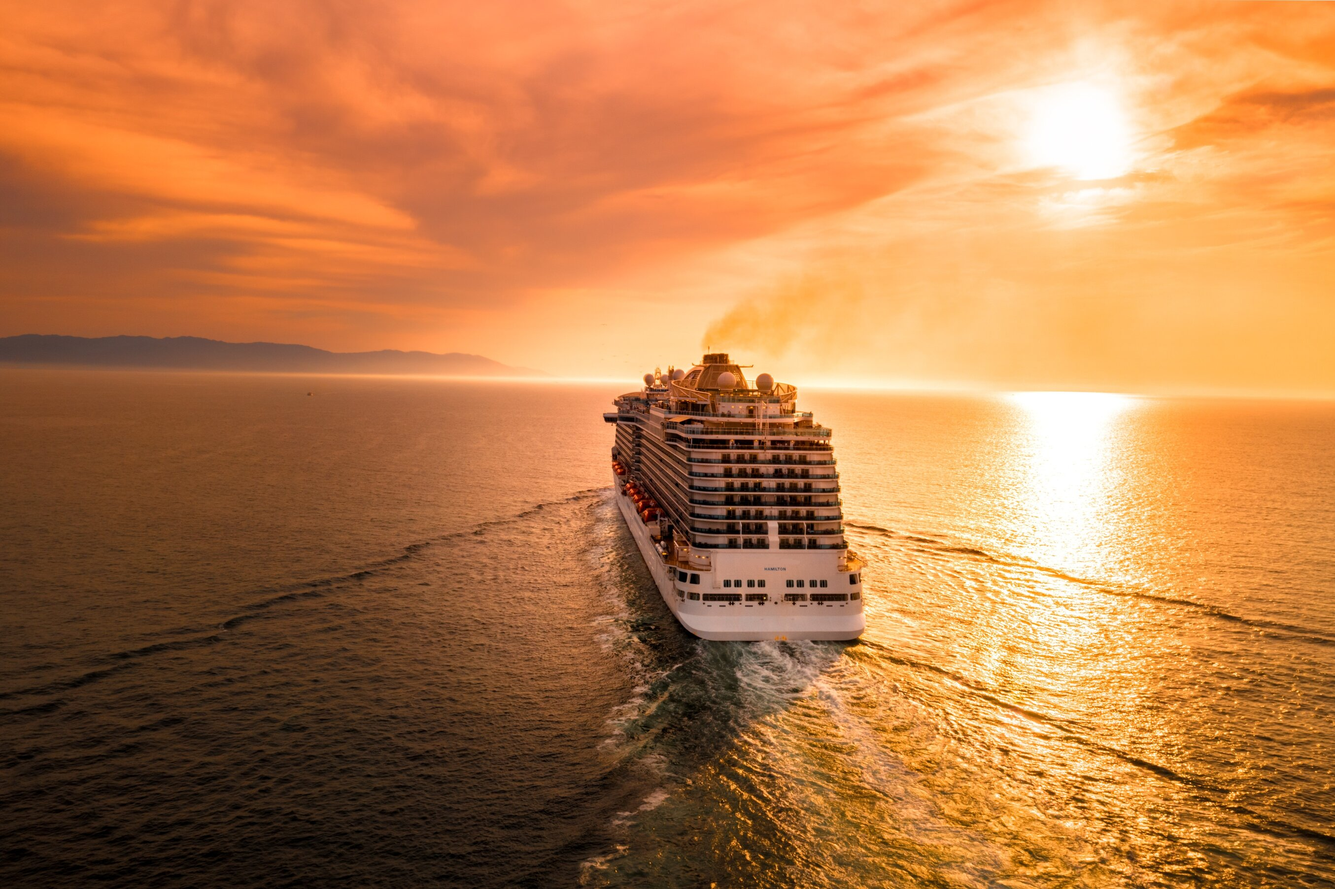
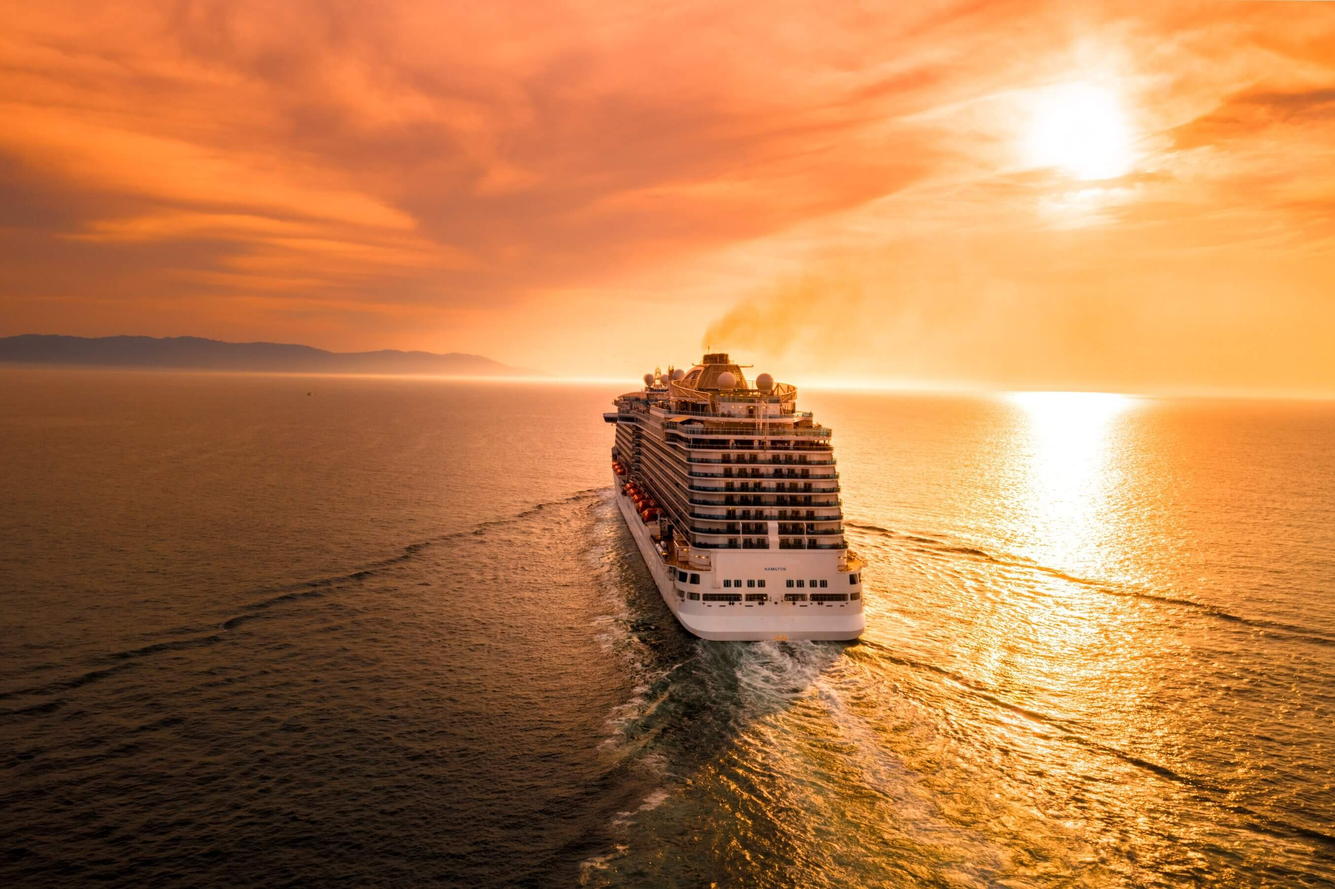
compress images

Changed region(s): [[0.7132, 0.6515, 0.8372, 0.8066], [0.8372, 0.8066, 0.8682, 0.8377]]

diff --git a/static/css/style.min.css b/static/css/style.min.css
@@ -1,1 +1,1 @@
-*{font-size:1em;font-family:"Inconsolata",monospace;font-weight:400;transition:.1s}* ::-moz-selection{-webkit-text-fill-color:#e3e3e3;background:#3a3a3a;color:#e3e3e3}* ::selection{-webkit-text-fill-color:#e3e3e3;background:#3a3a3a;color:#e3e3e3}html{height:100vh;max-height:100vh}.all-content{margin-bottom:0 !important}.all-content .sidenav-trigger{position:absolute;top:20px;left:20px}.list-header{color:#bc2122;font-weight:lighter;padding:2em 0 0;margin:0}sub{font-weight:lighter}h1{font-size:2.3em;display:table;position:relative;border:#e3e3e3 5px solid;padding:.5em;margin-bottom:1em;text-transform:uppercase;font-weight:600;letter-spacing:.15em;transition:none}h1 a{transition:none;color:#e3e3e3}h1 a:hover{color:#e3e3e3 !important;-webkit-text-fill-color:transparent;background:url("/images/bg.jpg") repeat center;color:#3a3a3a;-webkit-background-clip:text;background-size:100px}.centre{text-align:center}h2{margin-top:2.5em;font-size:1.2em;border-bottom:#e3e3e3 5px solid;font-weight:600}hr{border:none;border-top:#e3e3e3 1px solid}.ico{width:1em;font-size:2em}.info{text-align:justify;color:#3a3a3a;margin-bottom:2.5em}a{text-align:center}.good i{color:#248d3c}.average i{color:#bc6d2e}.learning i{color:#4677bc}.subinfo{color:#636363}.subinfo a{color:#636363;text-decoration:none;border-bottom:1px #e3e3e3 dashed}strong,strong>*{font-weight:600}#portrait{position:absolute;z-index:-1;top:0}a{color:#3a3a3a;display:inline-block}a img{-webkit-transform:perspective(1px) translateZ(0);transform:perspective(1px) translateZ(0);box-shadow:0 0 1px transparent;-webkit-transition-duration:.3s;transition-duration:.3s;-webkit-transition-property:transform;transition-property:transform}a img:hover,a img:focus,a img:active{-webkit-transform:scale(0.9);transform:scale(0.9)}.border{padding:.5em;border:#e3e3e3 5px solid}.sidebar{position:fixed;z-index:1;min-height:100% !important;padding-left:2.5em !important;padding-right:1em !important;background:#fff;box-shadow:5px 5px 40px rgba(0,0,0,.3);width:100%;overflow-x:hidden;overflow-y:scroll;max-height:100vh}.sidebar a:hover{color:#bc2122}.sidebar li{padding-left:5px;list-style-type:circle;font-size:1.1em;float:none}.sidebar li a{padding-left:10px}.sidebar li:hover{list-style-type:revert;color:#bc2122}.sidebar li:not(:first-of-type){padding-top:5px}.post-list li{padding-bottom:10px;list-style-type:none;font-size:.7em}.post-list li a{color:#3a3a3a !important;font-weight:800;font-size:2em}.post-list li a:hover{color:#bc2122 !important}.post-list li:before{-webkit-text-fill-color:transparent;background:url("/images/bg.jpg") repeat center;color:#3a3a3a;-webkit-background-clip:text;background-size:100px;color:#fff;margin-right:5px}.posts{margin-bottom:.5em;font-weight:600;display:inline-block;color:#3a3a3a;text-decoration:none}.posts::after{content:"";display:block;width:0;height:3px;background:#bc2122;transition:width .3s}.posts:hover::after{width:100%}@media only screen and (max-width: 992px){.slide-in-on-mobile-blog{-webkit-transform:translateX(-105%);transform:translateX(-105%)}}@media only screen and (min-width: 992px){.slide-in-on-mobile-blog{-webkit-transform:translateX(0%);transform:translateX(0%)}}#post{box-shadow:5px 5px 40px rgba(0,0,0,.3);padding-left:5em;padding-right:3em;background:#e3e3e3;overflow-x:hidden;overflow-y:scroll;max-height:100vh;min-height:100vh}#post title{display:block;position:relative;border:#e3e3e3 5px solid;text-transform:uppercase;font-weight:800;letter-spacing:.15em;padding:initial;color:#e3e3e3;margin-bottom:.2em;font-size:4em;text-shadow:-3px 3px 0 #3a3a3a;padding-top:.5em}#post .banner{padding-top:-5px}#post .banner img{max-height:250px;max-width:90%}#post .content p{font-size:1.2em}#post .content img{max-width:100%}#post .content .tilde{font-size:5em;line-height:0;color:#fff;padding:30px 30px 50px;-webkit-text-fill-color:transparent;background:url("/images/bg.jpg") repeat center;color:#3a3a3a;-webkit-background-clip:text;background-size:100px}#post .content blockquote{border-left:3px solid #636363;font-style:italic}#post .content blockquote p{font-weight:200}#post .content ul li{list-style-type:circle;margin-left:30px;padding-left:10px}#post .content code{background:#fff;color:#3a3a3a;padding:2px 5px 2px 5px;border-radius:3px}#post .content h1{text-align:center;margin:1em 0 0;font-size:2.5em;display:inherit;font-weight:900}#post .content h2{margin-top:1em;display:table;font-size:2em;font-weight:900}#post .content h3{margin-top:initial;display:table;font-size:1.8em;font-weight:600}#post .content hr{border-top:#fff 2px dashed !important;margin-top:30px;padding-bottom:25px}#post .content .hljs{background:#fff;font-size:.8em}#post .tags{margin-top:.5em}#post .tags .tag{font-size:.8em;padding:2px 10px;border-radius:20px;background:#e3e3e3;border:1px solid #3a3a3a;display:inline;color:#6b6b6b;margin:2px}#post .tags .tag:hover{cursor:pointer;background:#3a3a3a}#post .tags .tag a:hover{color:#e3e3e3}#post .date{margin-top:.8em;padding-bottom:.5em;color:#3a3a3a;font-size:.8em}#post a{color:#bc2122}#post a:hover{color:#3a3a3a}#post header{opacity:.7}.image-note{color:#e3e3e3;font-size:.6em;padding:1em;position:absolute;width:10em;bottom:0;right:0;background-color:#3a3a3a;opacity:.6}.full-image{position:absolute;background:url("/images/bg3_blur.png") no-repeat center center fixed;transition:background .5s linear;min-width:100% !important;min-height:100% !important;-webkit-background-size:cover;-moz-background-size:cover;background-size:cover;-o-background-size:cover;-webkit-filter:none;z-index:-1}i{font-size:1.5em;color:#3a3a3a}::-webkit-scrollbar{display:none}@media only screen and (max-width : 600px){.full-image{background:none}.sidebar{padding-left:1em !important;padding-right:1em !important}}/*# sourceMappingURL=style.min.css.map */
+*{font-size:1em;font-family:"Inconsolata",monospace;font-weight:400;transition:.1s}* ::-moz-selection{-webkit-text-fill-color:#e3e3e3;background:#3a3a3a;color:#e3e3e3}* ::selection{-webkit-text-fill-color:#e3e3e3;background:#3a3a3a;color:#e3e3e3}html{height:100vh;max-height:100vh}.all-content{margin-bottom:0 !important}.all-content .sidenav-trigger{position:absolute;top:20px;left:20px}.list-header{color:#bc2122;font-weight:lighter;padding:2em 0 0;margin:0}sub{font-weight:lighter}h1{font-size:2.3em;display:table;position:relative;border:#e3e3e3 5px solid;padding:.5em;margin-bottom:1em;text-transform:uppercase;font-weight:600;letter-spacing:.15em;transition:none}h1 a{transition:none;color:#e3e3e3}h1 a:hover{color:#e3e3e3 !important;-webkit-text-fill-color:transparent;background:url("/images/bg.jpg") repeat center;color:#3a3a3a;-webkit-background-clip:text;background-size:100px}.centre{text-align:center}h2{margin-top:2.5em;font-size:1.2em;border-bottom:#e3e3e3 5px solid;font-weight:600}hr{border:none;border-top:#e3e3e3 1px solid}.ico{width:1em;font-size:2em}.info{text-align:justify;color:#3a3a3a;margin-bottom:2.5em}a{text-align:center}.good i{color:#248d3c}.average i{color:#bc6d2e}.learning i{color:#4677bc}.subinfo{color:#636363}.subinfo a{color:#636363;text-decoration:none;border-bottom:1px #e3e3e3 dashed}strong,strong>*{font-weight:600}#portrait{position:absolute;z-index:-1;top:0}a{color:#3a3a3a;display:inline-block}a img{-webkit-transform:perspective(1px) translateZ(0);transform:perspective(1px) translateZ(0);box-shadow:0 0 1px transparent;-webkit-transition-duration:.3s;transition-duration:.3s;-webkit-transition-property:transform;transition-property:transform}a img:hover,a img:focus,a img:active{-webkit-transform:scale(0.9);transform:scale(0.9)}.border{padding:.5em;border:#e3e3e3 5px solid}.sidebar{position:fixed;z-index:1;min-height:100% !important;padding-left:2.5em !important;padding-right:1em !important;background:#fff;box-shadow:5px 5px 40px rgba(0,0,0,.3);width:100%;overflow-x:hidden;overflow-y:scroll;max-height:100vh}.sidebar a:hover{color:#bc2122}.sidebar li{padding-left:5px;list-style-type:circle;font-size:1.1em;float:none}.sidebar li a{padding-left:10px}.sidebar li:hover{list-style-type:revert;color:#bc2122}.sidebar li:not(:first-of-type){padding-top:5px}.post-list li{padding-bottom:10px;list-style-type:none;font-size:.7em}.post-list li a{color:#3a3a3a !important;font-weight:800;font-size:2em}.post-list li a:hover{color:#bc2122 !important}.post-list li:before{-webkit-text-fill-color:transparent;background:url("/images/bg.jpg") repeat center;color:#3a3a3a;-webkit-background-clip:text;background-size:100px;color:#fff;margin-right:5px}.posts{margin-bottom:.5em;font-weight:600;display:inline-block;color:#3a3a3a;text-decoration:none}.posts::after{content:"";display:block;width:0;height:3px;background:#bc2122;transition:width .3s}.posts:hover::after{width:100%}@media only screen and (max-width: 992px){.slide-in-on-mobile-blog{-webkit-transform:translateX(-105%);transform:translateX(-105%)}}@media only screen and (min-width: 992px){.slide-in-on-mobile-blog{-webkit-transform:translateX(0%);transform:translateX(0%)}}#post{box-shadow:5px 5px 40px rgba(0,0,0,.3);padding-left:5em;padding-right:3em;background:#e3e3e3;overflow-x:hidden;overflow-y:scroll;max-height:100vh;min-height:100vh}#post title{display:block;position:relative;border:#e3e3e3 5px solid;text-transform:uppercase;font-weight:800;letter-spacing:.15em;padding:initial;color:#e3e3e3;margin-bottom:.2em;font-size:4em;text-shadow:-3px 3px 0 #3a3a3a;padding-top:.5em}#post .banner{padding-top:-5px}#post .banner img{max-height:250px;max-width:90%}#post .content p{font-size:1.2em}#post .content img{max-width:100%}#post .content .tilde{font-size:5em;line-height:0;color:#fff;padding:30px 30px 50px;-webkit-text-fill-color:transparent;background:url("/images/bg.jpg") repeat center;color:#3a3a3a;-webkit-background-clip:text;background-size:100px}#post .content blockquote{border-left:3px solid #636363;font-style:italic}#post .content blockquote p{font-weight:200}#post .content ul li{list-style-type:circle;margin-left:30px;padding-left:10px}#post .content code{background:#fff;color:#3a3a3a;padding:2px 5px 2px 5px;border-radius:3px}#post .content h1{text-align:center;margin:1em 0 0;font-size:2.5em;display:inherit;font-weight:900}#post .content h2{margin-top:1em;display:table;font-size:2em;font-weight:900}#post .content h3{margin-top:initial;display:table;font-size:1.8em;font-weight:600}#post .content hr{border-top:#fff 2px dashed !important;margin-top:30px;padding-bottom:25px}#post .content .hljs{background:#fff;font-size:.8em}#post .tags{margin-top:.5em}#post .tags .tag{font-size:.8em;padding:2px 10px;border-radius:20px;background:#e3e3e3;border:1px solid #3a3a3a;display:inline;color:#6b6b6b;margin:2px}#post .tags .tag:hover{cursor:pointer;background:#3a3a3a}#post .tags .tag a:hover{color:#e3e3e3}#post .date{margin-top:.8em;padding-bottom:.5em;color:#3a3a3a;font-size:.8em}#post a{color:#bc2122}#post a:hover{color:#3a3a3a}#post header{opacity:.7}.image-note{color:#e3e3e3;font-size:.6em;padding:1em;position:absolute;width:10em;bottom:0;right:0;background-color:#3a3a3a;opacity:.6}.full-image{position:absolute;background:url("/images/bg3_blur.jpg") no-repeat center center fixed;transition:background .5s linear;min-width:100% !important;min-height:100% !important;-webkit-background-size:cover;-moz-background-size:cover;background-size:cover;-o-background-size:cover;-webkit-filter:none;z-index:-1}i{font-size:1.5em;color:#3a3a3a}::-webkit-scrollbar{display:none}@media only screen and (max-width : 600px){.full-image{background:none}.sidebar{padding-left:1em !important;padding-right:1em !important}}/*# sourceMappingURL=style.min.css.map */

diff --git a/static/css/style.css b/static/css/style.css
@@ -385,7 +385,7 @@ a img:hover, a img:focus, a img:active {
 
 .full-image {
   position: absolute;
-  background: url("/images/bg_blur.png") no-repeat center center fixed;
+  background: url("/images/bg_blur.jpg") no-repeat center center fixed;
   transition: background 0.5s linear;
   min-width: 100% !important;
   min-height: 100% !important;

diff --git a/static/css/style.sass b/static/css/style.sass
@@ -366,7 +366,7 @@ a
 
 .full-image
   position: absolute
-  background: url('/images/bg_blur.png') no-repeat center center fixed
+  background: url('/images/bg_blur.jpg') no-repeat center center fixed
   transition: background 0.5s linear
   min-width: 100% !important
   min-height: 100% !important
